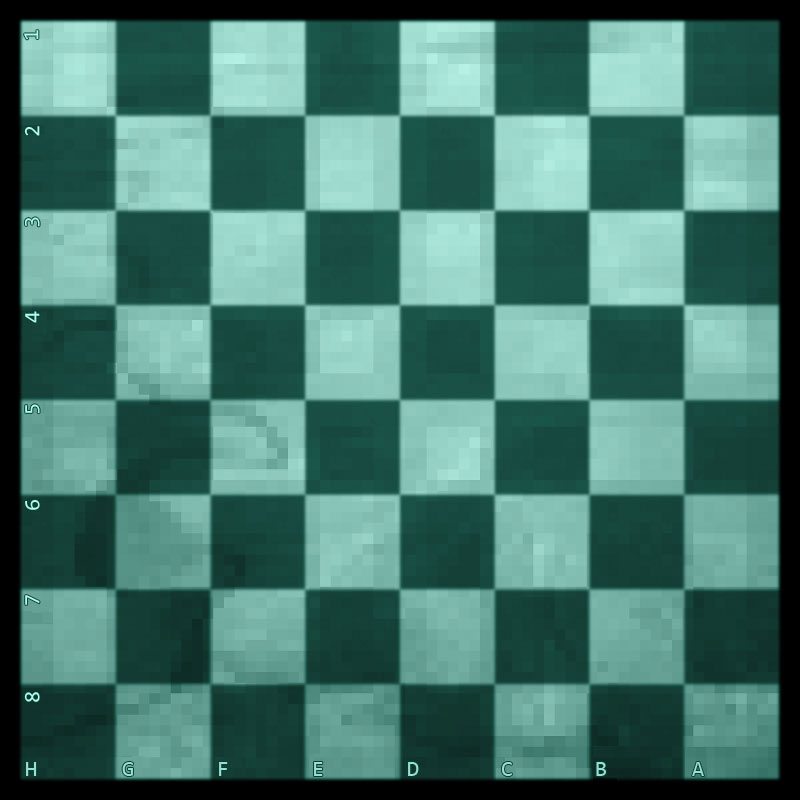
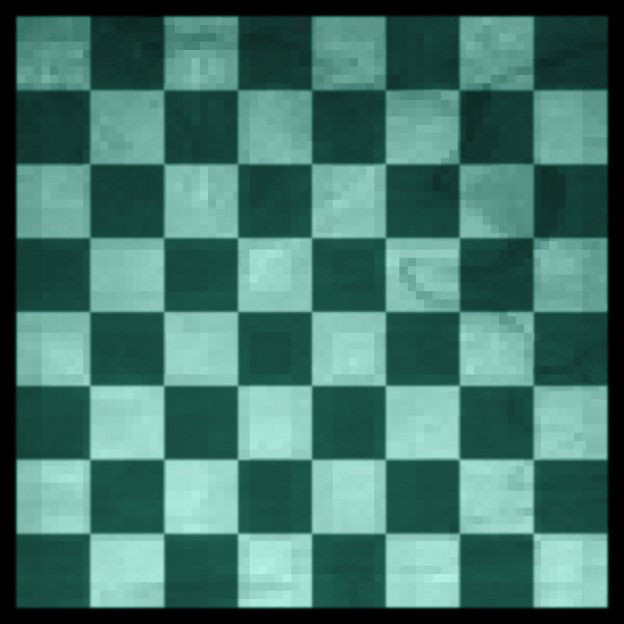
-Removed coordinate numbers from the board image and converted it to dynamically number the board. -Observer now has four board rotation orientations.

diff --git a/lib/client/main.js b/lib/client/main.js
@@ -243,6 +243,7 @@ require([
   }
 
 
+  var OBSERVER_FLIPPED_ROLE = 'observer_flipped';
   var OBSERVER_ROLE = 'observer';
   var WHITE_ROLE = 'white';
   var BLACK_ROLE = 'black';
@@ -305,10 +306,18 @@ require([
     var newPieceOnBoard = document.createElement("div");
     var x = position.x;
     var y = position.y;
-    if (g_orientation === 'black') {
+    if (g_orientation === BLACK_ROLE) {
       //Our orientation is flipped
       x = 7-x;
       y = 7-y;
+    } else if (g_orientation === OBSERVER_ROLE) {
+      var oldX = x;
+      x = 7-y;
+      y = oldX;
+    } else if (g_orientation === OBSERVER_FLIPPED_ROLE) {
+      var oldX = x;
+      x = y;
+      y = 7-oldX;
     }
     newPieceOnBoard.className += " " + className;
     newPieceOnBoard.style.left = margin + (x * SQUARE_SIZE) + 'px';
@@ -645,7 +654,7 @@ require([
   }
 
   function updateBoard() {
-    if (!isObserver() && g_gameState.getCurrentPhase() === g_gameState.PHASES.SETUP) {
+    if (!g_gameState || g_gameState.getCurrentPhase() === g_gameState.PHASES.SETUP) {
       // TODO refresh the placed pieces properly once building boards are persisted
       return;
     }
@@ -1258,8 +1267,7 @@ require([
       printMessage("server", "You are an observer", "server");
       $('#flip_orientation').show();
     }
-    g_orientation = role;
-    $('body').addClass(g_orientation);
+    setupBoardOrientation(role);
     createArmySelector();
     initPawnUpgradeDialog();
   }
@@ -1628,16 +1636,19 @@ require([
     reject_draw();
   });
   $("#flip_orientation").bind('click', function() {
-    $('body').removeClass(g_orientation);
-    if (g_orientation === BLACK_ROLE) {
-      g_orientation = WHITE_ROLE;
+
+    var orientation = g_orientation;
+    if (g_orientation === OBSERVER_ROLE) {
+      orientation = WHITE_ROLE;
+    } else if (g_orientation === WHITE_ROLE) {
+      orientation = OBSERVER_FLIPPED_ROLE;
+    } else if (g_orientation === OBSERVER_FLIPPED_ROLE) {
+      orientation = BLACK_ROLE;
     } else {
-      g_orientation = BLACK_ROLE;
+      orientation = OBSERVER_ROLE;
     }
 
-    $('body').addClass(g_orientation);
-    $('#orientation_label').text(g_orientation);
-    updateBoard();
+    setupBoardOrientation(orientation);
   });
 
   var $notes = $("#notes");
@@ -1649,6 +1660,89 @@ require([
     notes: { content: $notes, selector: $("#notes_selector"), bg_url: "images/tab_notes.png" },
     chat: { content: $chat, selector: $("#chat_selector"), indicator: $chat_message_indicator, bg_url: "images/tab_chat.png" },
     log: { content: $log, selector: $("#log_selector"), bg_url: "images/tab_log.png" },
+  };
+
+  function setupBoardOrientation(orientation) {
+    $('body').removeClass(g_orientation);
+
+    g_orientation = orientation;
+    $('body').addClass(g_orientation);
+    $('#orientation_label').text(g_orientation.substring(0, 6));
+
+    $('[id^=coord]').show();
+
+    // Update board coordinates.
+    if (g_orientation === OBSERVER_ROLE) {
+      $('#coord01').text('H');
+      $('#coord02').text('G');
+      $('#coord03').text('F');
+      $('#coord04').text('E');
+      $('#coord05').text('D');
+      $('#coord06').text('C');
+      $('#coord07').text('B');
+      $('#coord08').text('A');
+      $('#coord09').text('8');
+      $('#coord10').text('7');
+      $('#coord11').text('6');
+      $('#coord12').text('5');
+      $('#coord13').text('4');
+      $('#coord14').text('3');
+      $('#coord15').text('2');
+      $('#coord16').text('1');
+    } else if (g_orientation === OBSERVER_FLIPPED_ROLE) {
+      $('#coord01').text('A');
+      $('#coord02').text('B');
+      $('#coord03').text('C');
+      $('#coord04').text('D');
+      $('#coord05').text('E');
+      $('#coord06').text('F');
+      $('#coord07').text('G');
+      $('#coord08').text('H');
+      $('#coord09').text('1');
+      $('#coord10').text('2');
+      $('#coord11').text('3');
+      $('#coord12').text('4');
+      $('#coord13').text('5');
+      $('#coord14').text('6');
+      $('#coord15').text('7');
+      $('#coord16').text('8');
+    } else if (g_orientation === WHITE_ROLE) {
+      $('#coord01').text('8');
+      $('#coord02').text('7');
+      $('#coord03').text('6');
+      $('#coord04').text('5');
+      $('#coord05').text('4');
+      $('#coord06').text('3');
+      $('#coord07').text('2');
+      $('#coord08').text('1');
+      $('#coord09').text('A');
+      $('#coord10').text('B');
+      $('#coord11').text('C');
+      $('#coord12').text('D');
+      $('#coord13').text('E');
+      $('#coord14').text('F');
+      $('#coord15').text('G');
+      $('#coord16').text('H');
+    } else {
+      $('#coord01').text('1');
+      $('#coord02').text('2');
+      $('#coord03').text('3');
+      $('#coord04').text('4');
+      $('#coord05').text('5');
+      $('#coord06').text('6');
+      $('#coord07').text('7');
+      $('#coord08').text('8');
+      $('#coord09').text('H');
+      $('#coord10').text('G');
+      $('#coord11').text('F');
+      $('#coord12').text('E');
+      $('#coord13').text('D');
+      $('#coord14').text('C');
+      $('#coord15').text('B');
+      $('#coord16').text('A');
+    }
+
+    updateBoard();
   };
 
   function showTab(tab) {

diff --git a/assets/css/board.css b/assets/css/board.css
@@ -464,6 +464,7 @@ img.vertical-aligner {
 #flip_orientation {
   position: absolute;
   display: none;
+  cursor: pointer;
   background: top left no-repeat url('../images/flip_orientation.png');
   top: 295px;
   left: 640px;
@@ -488,6 +489,101 @@ img.vertical-aligner {
 #orientation_label {
   position: absolute;
   top: 40px;
+  left: -10px;
+  width: 58px;
+  cursor: pointer;
+  text-align: center;
+  -webkit-user-select: none;
+  -moz-user-select: none;
+  -ms-user-select: none;
+  user-select: none;
+}
+
+#coord01, #coord02, #coord03, #coord04, #coord05, #coord06, #coord07, #coord08, #coord09, #coord10, #coord11, #coord12, #coord13, #coord14, #coord15, #coord16 {
+  position: absolute;
+  top: 588px;
+  left: 22px;
+  display: none;
+  font-weight: bold;
+  font-size: 17px;
+  opacity: 0.4;
+  text-shadow:
+    -1px -1px 0 #000,
+     1px -1px 0 #000,
+    -1px  1px 0 #000,
+     1px  1px 0 #000;
+}
+
+#coord01, #coord02, #coord03, #coord04, #coord05, #coord06, #coord07, #coord08 {
+  /*font-size: 20px;*/
+  -webkit-transform:rotate(-90deg);
+  -moz-transform:rotate(-90deg);
+  -ms-transform:rotate(-90deg);
+  transform:rotate(-90deg);
+}
+
+#coord01 {
+  top: 15px;
+}
+
+#coord02 {
+  top: 88px;
+}
+
+#coord03 {
+  top: 161px;
+}
+
+#coord04 {
+  top: 235px;
+}
+
+#coord05 {
+  top: 309px;
+}
+
+#coord06 {
+  top: 383px;
+}
+
+#coord07 {
+  top: 457px;
+}
+
+#coord08 {
+  top: 531px;
+}
+
+#coord09 {
+  left: 20px;
+}
+
+#coord10 {
+  left: 93px;
+}
+
+#coord11 {
+  left: 167px;
+}
+
+#coord12 {
+  left: 241px;
+}
+
+#coord13 {
+  left: 315px;
+}
+
+#coord14 {
+  left: 389px;
+}
+
+#coord15 {
+  left: 463px;
+}
+
+#coord16 {
+  left: 537px;
 }
 
 #end_turn {
@@ -1008,7 +1104,7 @@ ul li.separator {
   font-weight: initial;
 }
 
-body.white .board, body.observer .board {
+body.white .board {
   background: top left no-repeat url('../images/board_base-white.jpg');
   -webkit-background-size:100%;
      -moz-background-size:100%;
@@ -1017,6 +1113,20 @@ body.white .board, body.observer .board {
 }
 body.black .board {
   background: top left no-repeat url('../images/board_base-black.jpg');
+  -webkit-background-size:100%;
+     -moz-background-size:100%;
+       -o-background-size:100%;
+          background-size:100%;
+}
+body.observer .board {
+  background: top left no-repeat url('../images/board_base-observer.jpg');
+  -webkit-background-size:100%;
+     -moz-background-size:100%;
+       -o-background-size:100%;
+          background-size:100%;
+}
+body.observer_flipped .board {
+  background: top left no-repeat url('../images/board_base-observer_flipped.jpg');
   -webkit-background-size:100%;
      -moz-background-size:100%;
        -o-background-size:100%;

diff --git a/index.html b/index.html
@@ -150,6 +150,22 @@
         <div id="flip_orientation" data-ot="Flip the orientation of the board you are viewing." data-ot-tip-joint="bottom left">
           <div id="orientation_label">white</div>
         </div>
+        <div id="coord01">8</div>
+        <div id="coord02">7</div>
+        <div id="coord03">6</div>
+        <div id="coord04">5</div>
+        <div id="coord05">4</div>
+        <div id="coord06">3</div>
+        <div id="coord07">2</div>
+        <div id="coord08">1</div>
+        <div id="coord09">A</div>
+        <div id="coord10">B</div>
+        <div id="coord11">C</div>
+        <div id="coord12">D</div>
+        <div id="coord13">E</div>
+        <div id="coord14">F</div>
+        <div id="coord15">G</div>
+        <div id="coord16">H</div>
       </div>
       <div id="side_area">
         <div id="settings_overlay">
